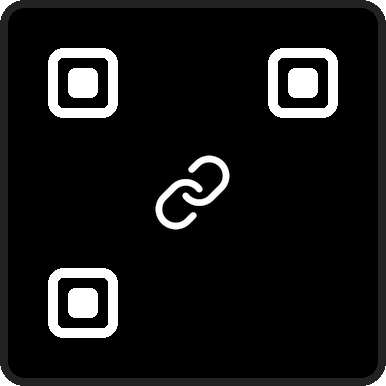
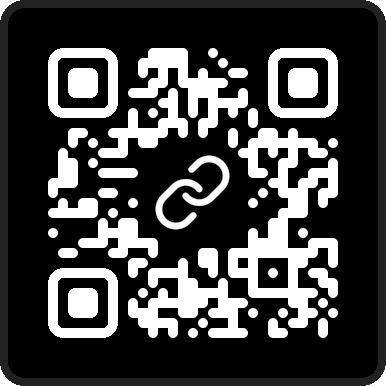
fix: qr_engine.py mask rendering on dark backgrounds correctly applies module drawer colors

Changed region(s): [[0.1244, 0.1244, 0.9016, 0.9016]]

diff --git a/backend/qr_engine.py b/backend/qr_engine.py
@@ -8,14 +8,13 @@ class CustomStyledPilImage(StyledPilImage):
     When back_color is dark, self.paint_color must be light/white so module drawing is distinct
     from back_color during extrapolation.
     """
-    def __init__(self, *args, **kwargs):
-        super().__init__(*args, **kwargs)
+    def init_new_image(self):
         if hasattr(self, 'color_mask') and hasattr(self.color_mask, 'back_color'):
             bg = self.color_mask.back_color
             bg_lum = bg[0]*0.299 + bg[1]*0.587 + bg[2]*0.114
             if bg_lum < 128:
                 self.paint_color = (255, 255, 255, 255) if len(bg) == 4 else (255, 255, 255)
-                self.color_mask.paint_color = self.paint_color
+        super().init_new_image()
 from qrcode.image.styles.moduledrawers import (
     SquareModuleDrawer, GappedSquareModuleDrawer, CircleModuleDrawer,
     RoundedModuleDrawer, VerticalBarsDrawer, HorizontalBarsDrawer
